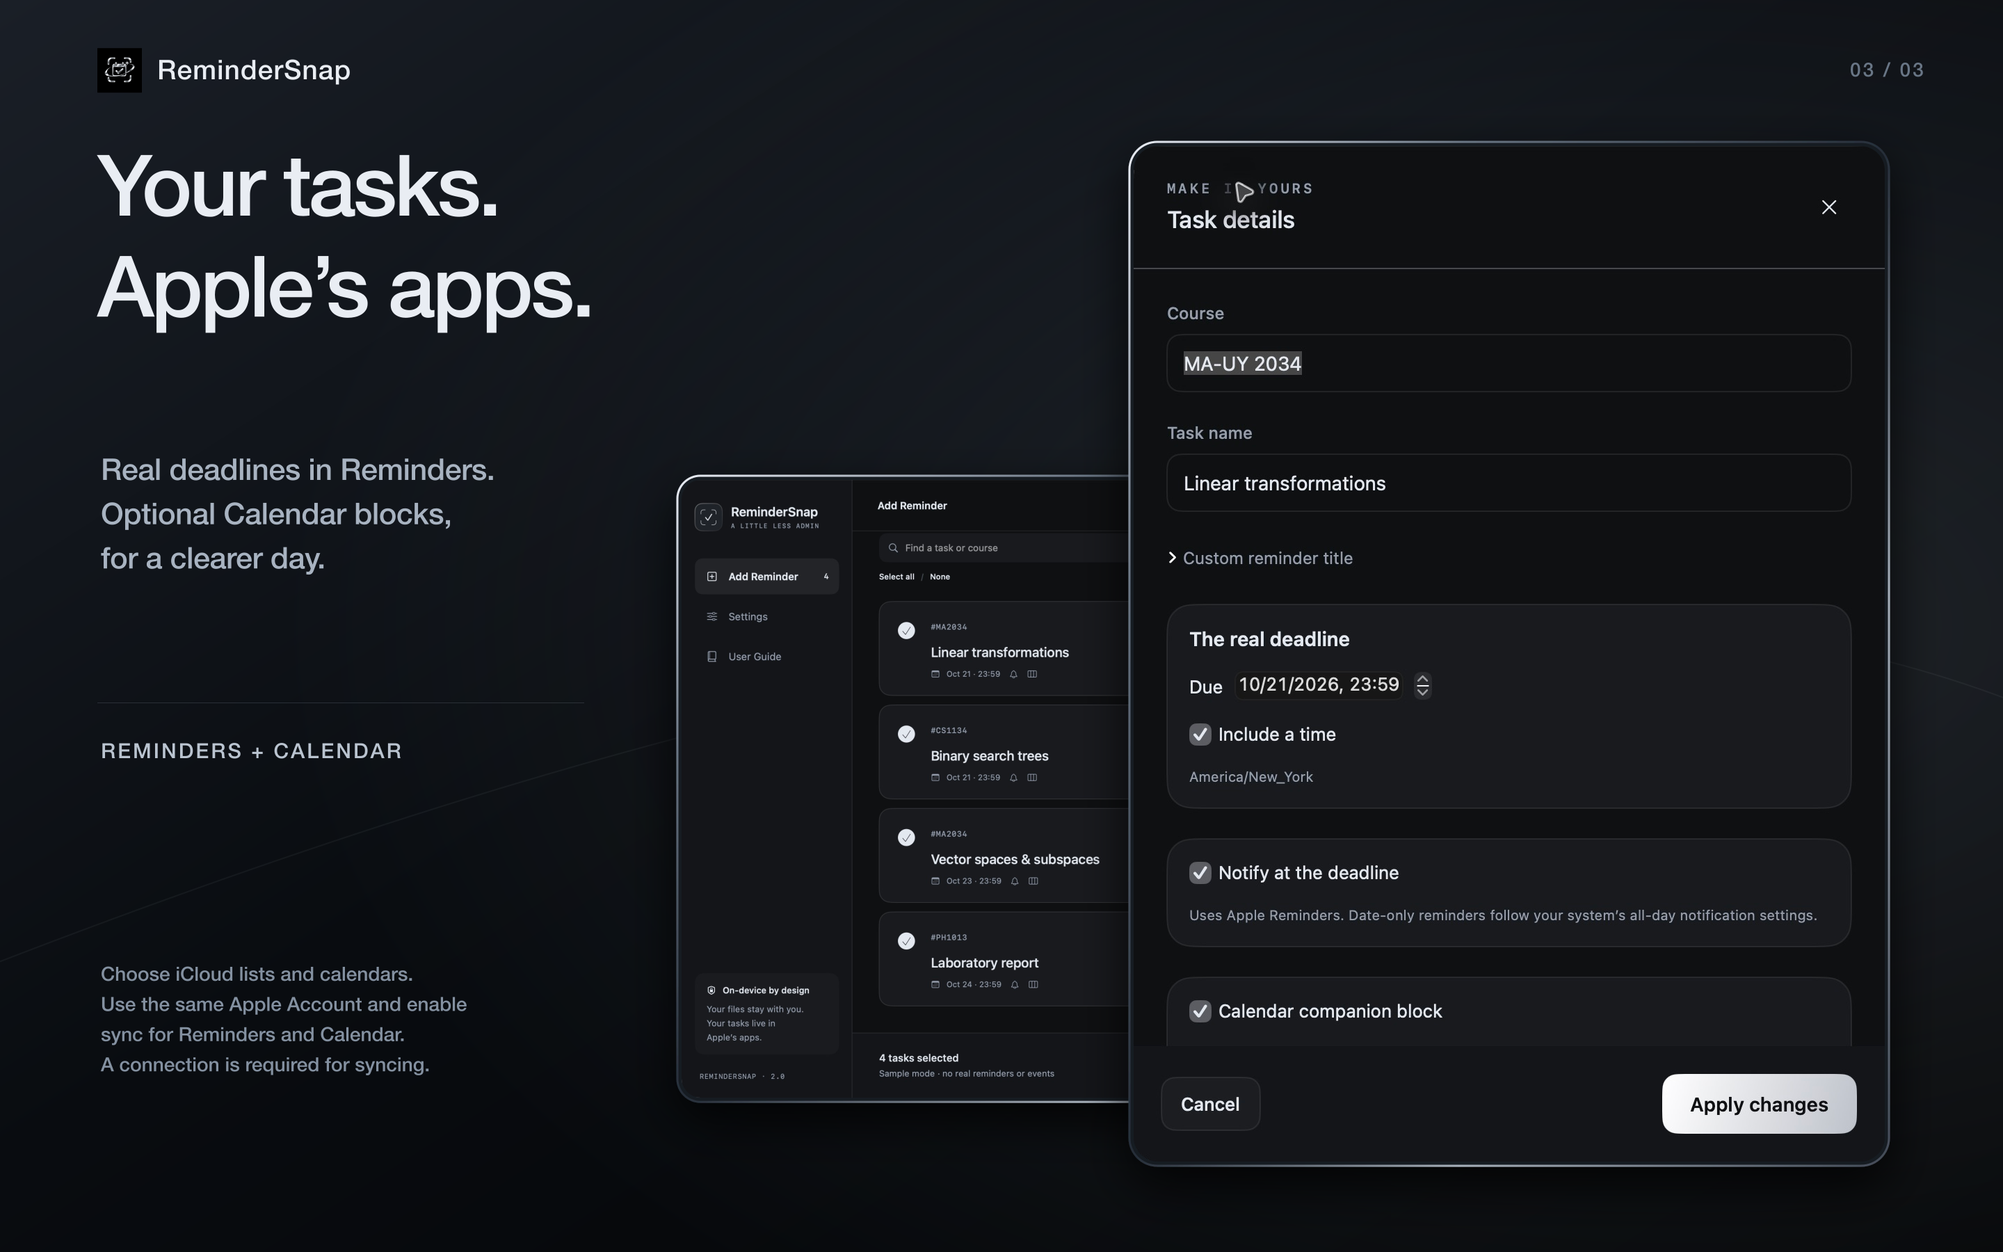
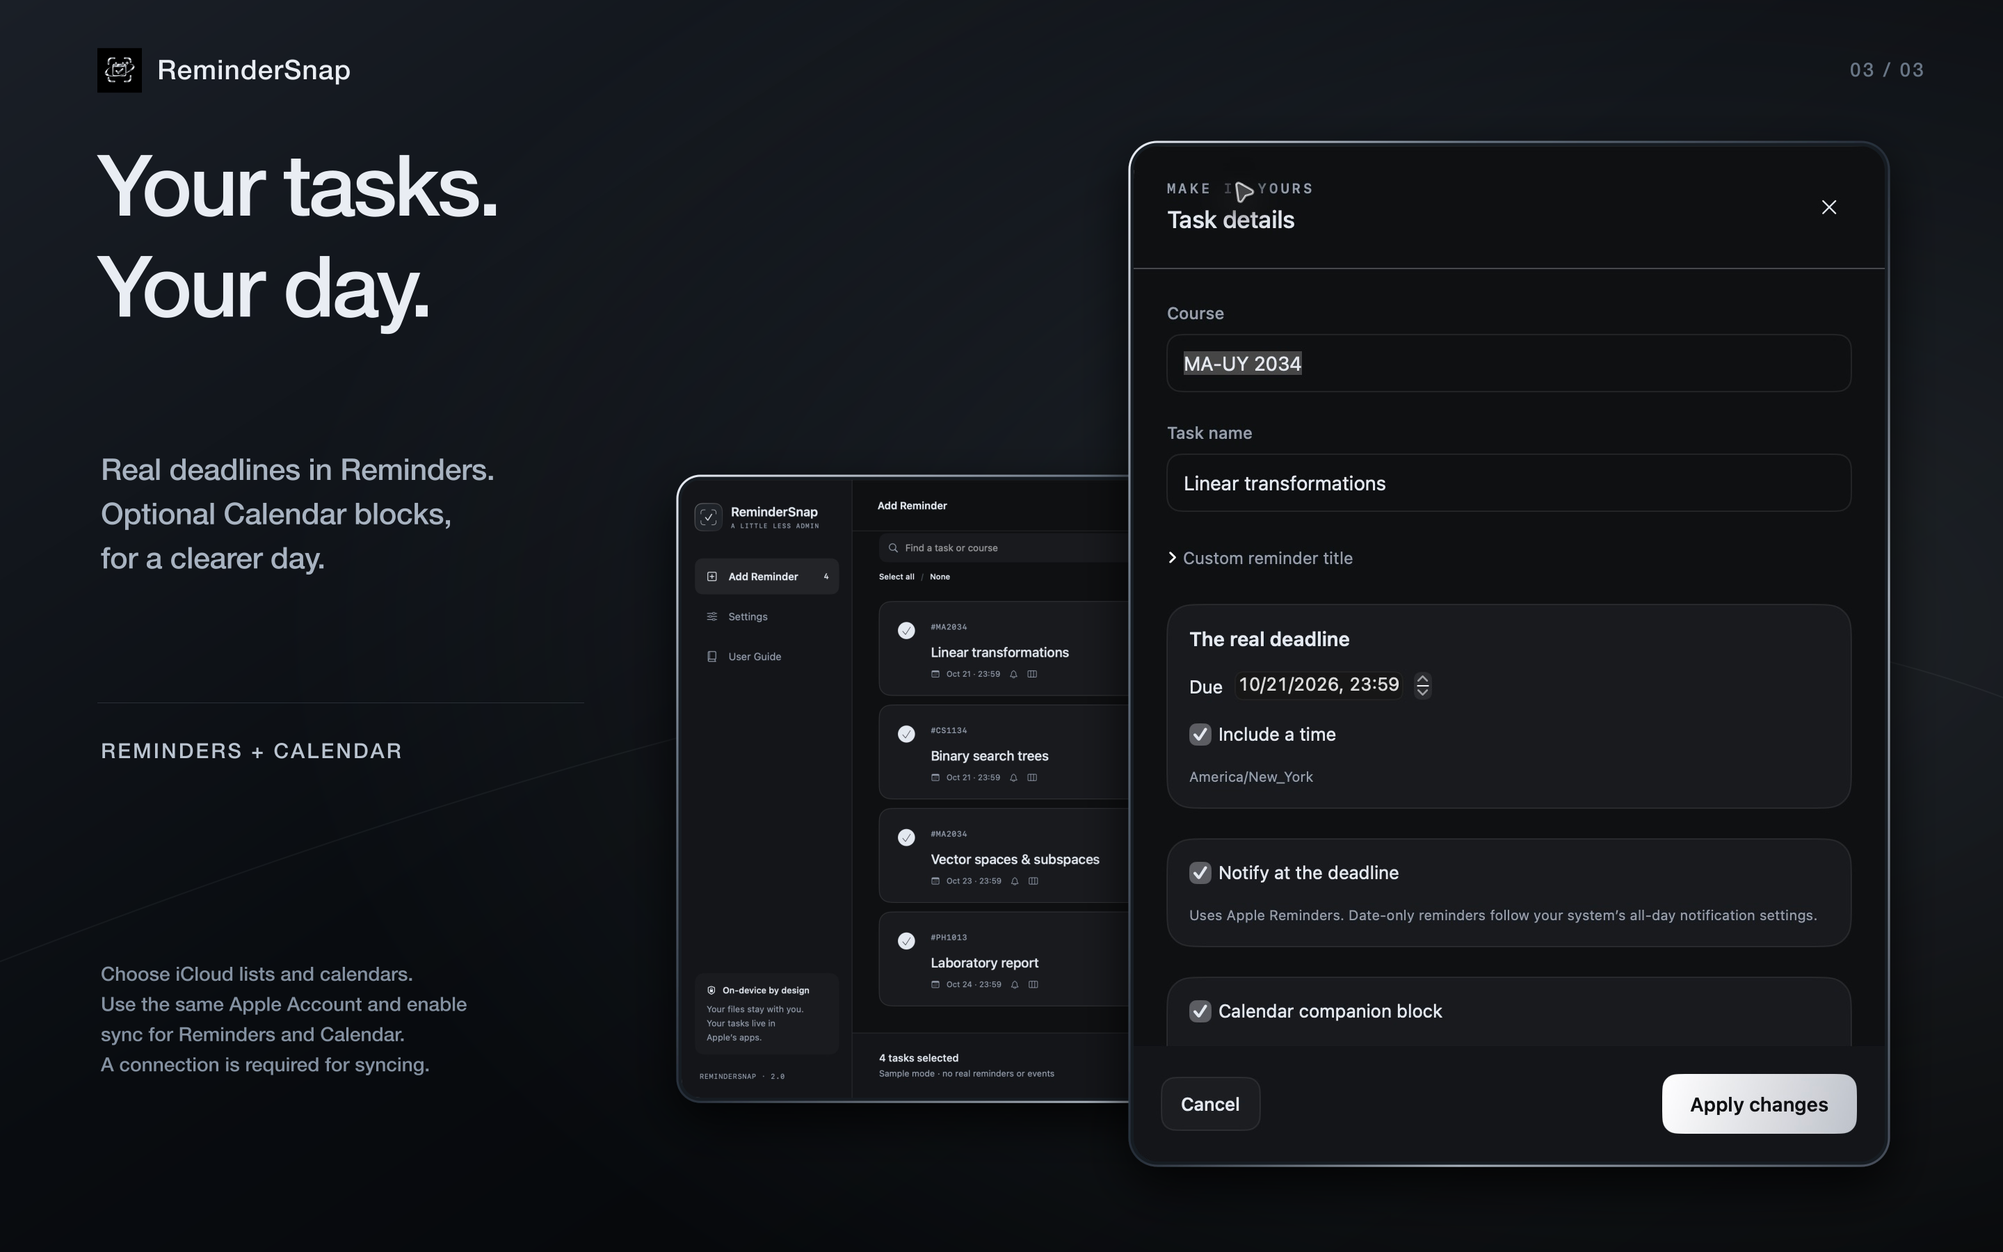
Correct Mac store branding and record metadata resubmission

Changed region(s): [[0.0312, 0.1867, 0.3125, 0.28]]

diff --git a/AppStore/UPLOAD-STATUS.md b/AppStore/UPLOAD-STATUS.md
@@ -1,6 +1,6 @@
 # ReminderSnap 2.0 — upload status
 
-Updated October 20, 2026. This records upload and submission work, not App Review approval or public release.
+Updated October 22, 2026. Current state: iOS Ready for Distribution; macOS resubmitted and Waiting for Review.
 
 ## App record
 
@@ -12,6 +12,16 @@ Updated October 20, 2026. This records upload and submission work, not App Revie
 - [App Store Connect](https://appstoreconnect.apple.com/apps/6824731033/distribution)
 - Source: [ReminderSnap-v2.0](https://github.com/NerdyKevvy/ReminderSnap-v2.0). Initial build 20003 used release source commit a857b69; build 20004 adds the setup follow-up described below.
 
+## October 22 review outcome and metadata correction
+
+- Verified the iOS version 2.0 sidebar status is Ready for Distribution. The owner reports the iOS app is released and reachable by its App Store link. This turn did not change, withdraw, replace or resubmit the released iOS binary; country-by-country availability and search indexing were not audited.
+- Mac review rejected version 2.0 (20004) under guideline 5.2.5, specifically for Apple terms in the subtitle. No code defect or binary change was requested in that report.
+- Saved neutral English and Simplified Chinese subtitles: "Screenshots to tasks" and "截图识别，轻松创建待办与日程". These fields are shared App Information; Apple's page says changes release with the next app version, rather than being Mac-only fields.
+- As a precaution, replaced only the third Mac screenshot in both languages with neutral headlines. The listing still has three panels per locale, and the former panels remain in Apple's Asset Library and a local ignored archive. No released iPhone/iPad screenshots were changed.
+- Sent a factual reply to App Review at 4:11 PM Eastern describing the metadata corrections; no new legal agreement or compliance declaration was accepted.
+- Resubmitted the same Mac build 20004 at 4:12 PM Eastern on October 22. Verified both the submission and its app-version item show Waiting for Review. Submission ID remains 1e9ef1ae-175f-4905-acf0-2ebf5e05e9bd. Mac manual release remains selected; Mac approval/public release has not occurred.
+- The two revised PNGs passed exact 2880×1800, PNG/no-alpha checks and visual inspection. Renderer syntax and git diff whitespace checks passed. No application code or binary was changed, rebuilt or uploaded.
+
 ## Setup follow-up — build 20004
 
 - Owner tested build 20003: app functionality was reported working, with Calendar permission display needing one restart and the initial TestFlight guide not appearing.
@@ -19,14 +29,14 @@ Updated October 20, 2026. This records upload and submission work, not App Revie
 - Permission callbacks acknowledge approval immediately, with a separate pending-confirmation state when needed. EventKit cache reset and longer bounded refresh remain in place; actual system-confirmed full access still gates saves.
 - New migration/approval/refresh tests, full regression/OCR/PDF/CLI checks, Mac build and iOS simulator build passed. The guide appeared automatically in an isolated Mac app and iPhone simulator; finishing and relaunching the Mac app did not repeat the guide. No personal Calendar/Reminders permissions or entries were changed.
 - Both signed archives and uploads succeeded. Apple processed both build 20004 uploads, and both are Ready to Test in Owner testing. The group has one tester and four builds, retaining the two older builds for comparison. No new tester invitation was sent.
-- Real-device recheck of the revised Calendar connection flow remains pending. Build 20004 is not an App Review approval or a public release.
+- A separate explicit real-device recheck of the revised Calendar connection flow has not been recorded. Build availability by itself does not prove device behavior; the later iOS review outcome is recorded above.
 
 ## Completed
 
 - Created black/silver product-page panels around genuine fictional-sample captures. Uploaded three each for Mac, iPhone Dynamic Island medium and iPad 13-inch in English and Simplified Chinese (18 images). No owner calendar, reminder list or personal course screenshot was published. Optional larger iPhone exports are retained locally.
 - Corrected the required Chinese privacy-policy URL to the already published bilingual policy. The published Data Not Collected response was not changed.
-- Mac version 2.0 (20004) passed App Store Connect validation and was submitted on October 20 at 11:11 AM Eastern. Confirmed status: Waiting for Review. Submission ID: 1e9ef1ae-175f-4905-acf0-2ebf5e05e9bd. Manual public release remains selected.
-- After screenshot processing completed, iOS version 2.0 (20004), including iPhone/iPad, passed validation and was submitted on October 20 at 11:14 AM Eastern. Confirmed status: Waiting for Review. Submission ID: 67142bc3-9749-4061-b295-cbfcd3cb1cd7. Manual public release remains selected. The submissions page shows both platform versions Waiting for Review and zero draft submissions.
+- Mac version 2.0 (20004) passed App Store Connect validation and was initially submitted on October 20 at 11:11 AM Eastern. Its October 22 correction/resubmission is recorded above.
+- After screenshot processing completed, iOS version 2.0 (20004), including iPhone/iPad, passed validation and was submitted on October 20 at 11:14 AM Eastern. Submission ID: 67142bc3-9749-4061-b295-cbfcd3cb1cd7. Both initial submissions were then Waiting for Review; the current iOS outcome is recorded above.
 - Verified Xcode account and GitHub connection. Preserved the owner's untracked Xcode Cloud configuration.
 - Registered the approved permanent bundle ID and created one Mac/iOS App Store Connect record. Existing-team Full Access was explicitly approved.
 - Created signing certificates and an iOS App Store provisioning profile with owner approval. Private signing keys remain in the Mac Keychain; none were committed to GitHub.
@@ -44,7 +54,7 @@ Updated October 20, 2026. This records upload and submission work, not App Revie
 - Owner updates TestFlight to build 20004 and checks the revised guide and Calendar connection flow. No repeat invitation acceptance is needed. See [device test checklist](DEVICE-TEST.md).
 - Real-device persistence, permissions and notification testing, including iPad layout, minimum-OS checks and accessibility. No personal Apple reminders/events were written during the upload work.
 - Address any App Store Connect validation or applicable regional requirements shown during final submission. The selected storefronts are not a legal certification for every country.
-- Apple's review of both submitted platform versions, any review feedback, and the selected manual public release after approval. Neither platform is approved or publicly released.
+- Apple's review of the corrected Mac submission, any additional feedback, and the selected Mac manual public release after approval. iOS is already Ready for Distribution. Investigate the owner's reported iOS search visibility separately if it persists.
 
 ## Local evidence
 
@@ -71,6 +81,7 @@ Updated October 20, 2026. This records upload and submission work, not App Revie
 - Artifacts/Submission/store-ios-media-zh.png
 - Artifacts/Submission/mac-submitted-20004.png
 - Artifacts/Submission/both-submitted-20004.png
+- Artifacts/Submission/mac-resubmitted-20004-2026-10-22.png
 - Artifacts/StoreMedia/preview-en-US.png
 - Artifacts/StoreMedia/preview-zh-Hans.png
 

diff --git a/VERIFICATION.md b/VERIFICATION.md
@@ -2,6 +2,15 @@
 
 Initial local checks used build 20002 on October 19, 2026 with Xcode 27.1 (27A9275), macOS 27.0.1, Apple Silicon. The existing v2.0 Preview folder was not edited. Initial distribution used build 20003; the setup follow-up uses build 20004.
 
+## Mac metadata correction — October 22
+
+- Verified iOS Ready for Distribution and the Mac review message naming Apple terms in the subtitle under guideline 5.2.5. No application behavior/code fix was requested in that message.
+- Saved neutral shared App Information subtitles in English and Simplified Chinese. The released iOS binary/version was not changed, withdrawn or resubmitted; the page labels metadata edits as changes for the next release.
+- Revised only the third Mac panel's headline in each locale, then regenerated the asset exports/contact sheets. Git confirms the other Mac panels and all iPhone/iPad panels are unchanged. Both replacement PNGs passed visual inspection, 2880×1800 dimensions, PNG format and no-alpha validation. Renderer syntax and whitespace checks passed; an application rebuild/test run was unnecessary for this metadata-only correction.
+- Uploaded the two replacements, removed the superseded panels only from the Mac listing (retained in Asset Library), and confirmed three panels per locale.
+- Verified the correction reply is present in the review thread. Resubmitted unchanged Mac 2.0 (20004) and confirmed Waiting for Review at 4:12 PM Eastern. Evidence: Artifacts/Submission/mac-resubmitted-20004-2026-10-22.png.
+- This does not guarantee Mac approval or address unrelated Calendar ghost-display/OS behavior. Regional download availability and App Store search indexing were not independently tested in this turn.
+
 ## Store media and submission — October 20
 
 - Captured the real build 20004 interface using fictional built-in tasks on an isolated Mac app, iPhone simulator and iPad 13-inch simulator, in English and Simplified Chinese. No personal Apple permissions or actual saves were performed for these captures.
@@ -63,7 +72,7 @@ Apple's [EventKit access documentation](https://developer.apple.com/documentatio
 
 ## Not yet verified / release blockers
 
-- Apple's review of both platforms and manual public release. Genuine localized store screenshots, saved metadata, approved declarations, public privacy/support links, signing/upload and both review submissions are complete. No public release has occurred.
+- Apple's review of the corrected Mac metadata and subsequent manual Mac release. iOS is Ready for Distribution and reported released by the owner; individual storefront/search availability has not been audited. Initial upload/submission history and the Mac resubmission are recorded above.
 - Real Mac/iPhone/iPad permission grants, list/calendar creation, saves and notification delivery with the new production identity. No access to personal Reminders/Calendar was granted during these checks.
 - Physical iPhone/iPad operation, iPad orientations, minimum supported OS behavior, VoiceOver and full Dynamic Type coverage. The portrait iPad simulator review/editor/settings layouts were visibly checked during store capture, not physical-device notification behavior.
 - Calendar's earlier reported ghost display is not claimed repaired.

diff --git a/AppStore/RELEASE-CHECKLIST.md b/AppStore/RELEASE-CHECKLIST.md
@@ -24,10 +24,10 @@
 - [x] English and Simplified Chinese listing metadata, public support links, private review contacts and testing notes saved for both platforms.
 - [x] Signed distribution archives with dSYMs exported and uploaded for version 2.0 (20003) on both platforms. Both upload logs report success; Apple processing succeeded and the builds are attached to their release pages.
 - [x] Owner testing internal TestFlight group contains both builds as Ready to Test. Only the owner was added, with explicit approval; the owner subsequently installed and tested build 20003. Automatic build distribution is off.
-- [x] Manual public release selected for both platforms. Mac and iOS App Review submissions completed October 20; no public release has occurred.
+- [x] Manual public release was selected for both initial submissions October 20. On October 22, iOS shows Ready for Distribution and the owner reports it released; Mac remains manual release after review.
 - [x] Setup follow-up build 20004 compiled, archived, uploaded and processed for Mac/iOS; added to the same owner TestFlight group. Local tests cover old guide preferences, first presentation, restart instructions, approval/pending/revoked state and late refresh. Owner reported the rest of build 20003 working; the new connection flow still requires their device recheck.
 
-## Remaining before public release
+## Release verification and remaining Mac release work
 
 - [x] Owner accepted TestFlight and tested build 20003. Follow-up build 20004 is available; a separate explicit device recheck of the revised connection flow has not been recorded. See [DEVICE-TEST.md](DEVICE-TEST.md).
 - [ ] Complete real-device testing on iPhone/iPad and sandboxed Mac with dedicated test list/calendar: grant/deny/re-grant, destination creation, two identical imports, same-day deadlines, notifications, timezone/DST, Photos, Files, multitasking and accessibility.
@@ -37,7 +37,9 @@
 - [x] Resolve current App Store Connect validation: Chinese privacy-policy link added, screenshots processed and both submissions accepted into Waiting for Review. Selecting all storefronts does not establish country-specific legal clearance; address any later applicable requirement if raised.
 - [x] Submit macOS 2.0 (20004) for App Review; status Waiting for Review, October 20, 2026.
 - [x] Submit iOS 2.0 (20004) for App Review; status Waiting for Review, October 20, 2026.
-- [ ] Address review feedback for either platform if any and perform the selected manual release after approval.
+- [x] iOS 2.0 shows Ready for Distribution on October 22; owner reports it released. The released iOS binary was not modified during the Mac correction.
+- [x] Address the October 22 Mac guideline 5.2.5 subtitle issue in English/Chinese, neutralize the third Mac screenshot headline, reply to App Review and resubmit unchanged build 20004. Verified Waiting for Review at 4:12 PM Eastern.
+- [ ] Address additional Mac feedback if any and perform the selected manual Mac release after approval. Audit individual storefront/search availability separately if needed.
 
 Suggested archive command after signing and public policy are ready:
 

diff --git a/AppStore/LISTING-DRAFT.md b/AppStore/LISTING-DRAFT.md
@@ -6,7 +6,7 @@ English and Simplified Chinese descriptions, keywords and support links have bee
 
 Name: ReminderSnap
 
-Subtitle: Screenshots to Apple Reminders
+Subtitle: Screenshots to tasks
 
 Category: Productivity
 
@@ -35,7 +35,7 @@ homework,deadline,planner,student,OCR,screenshot,calendar,reminders,PDF,assignme
 
 名称：ReminderSnap
 
-副标题：从截图到 Apple 提醒事项
+副标题：截图识别，轻松创建待办与日程
 
 描述：
 
@@ -67,4 +67,10 @@ Clear All clears only the current in-memory review and recognized text. It does 
 
 Attach the included synthetic Samples/Cropped-homework.png and Samples/Example-homework.pdf if needed; these do not contain personal student data. They omit course information deliberately: enter MA-UY 2034 as batch context, or edit the extracted row. Do not use past-due fixtures to evaluate notification delivery; set a future date/time in a dedicated test destination.
 
-Private App Review contact fields, public privacy/support links and copyright (2026 Junhan Li) are saved for both platforms. Owner-approved privacy, content-rights, age-rating and non-trader responses are saved. Remaining presentation work is genuine device screenshots and the owner's final listing review; real-device TestFlight testing must precede public release. Private contact details are intentionally not repeated in this public document.
+Private App Review contact fields, public privacy/support links and copyright (2026 Junhan Li) are saved for both platforms. Owner-approved privacy, content-rights, age-rating and non-trader responses are saved. Genuine localized device screenshots were uploaded October 20. Private contact details are intentionally not repeated in this public document.
+
+## October 22 metadata correction
+
+The Mac review of build 20004 cited guideline 5.2.5 and specifically objected to Apple terms in the subtitle. The English and Simplified Chinese subtitles above replace the submitted Apple-branded wording. App Information is shared across platforms; App Store Connect labels these as changes released with the next app version. The already released iOS binary/version was not replaced, withdrawn or resubmitted.
+
+As an additional precaution, the third Mac screenshot headline was revised to "Your tasks. Your day." / "你的任务，日程更清晰。" Accurate compatibility explanations remain in the description and screenshot body. The revised panel is uploaded as `03-tasks-and-calendar.png`; its tracked render output retains the original filename for script compatibility. The other two Mac panels and all released iPhone/iPad panels are unchanged. Previous Mac panels remain in Apple's Asset Library and in the ignored local archive.

diff --git a/AppStore/Media/README.md b/AppStore/Media/README.md
@@ -12,7 +12,9 @@ Layout source: `Scripts/render-store-media.cjs` (Node + sharp). Input captures r
 
 Output sizes: Mac 2880×1800; iPhone large 1320×2868 and medium 1206×2622; iPad 13-inch portrait 2064×2752. Upload the sizes requested by the live App Store Connect media manager; smaller device families may inherit scaled images.
 
-On October 20, 2026, three panels per locale were uploaded for Mac, iPhone Dynamic Island medium and iPad 13-inch: 18 uploaded images in total. The large iPhone set is retained as an optional export, not uploaded into the medium-size slot. All 24 generated PNGs passed dimension/format/no-alpha checks. Apple finished processing the uploaded screenshots, and both platform submissions reached Waiting for Review. No public release has occurred.
+On October 20, 2026, three panels per locale were uploaded for Mac, iPhone Dynamic Island medium and iPad 13-inch: 18 uploaded images in total. The large iPhone set is retained as an optional export, not uploaded into the medium-size slot. All 24 generated PNGs passed dimension/format/no-alpha checks. Apple finished processing the uploaded screenshots, and both platform submissions reached Waiting for Review.
+
+On October 22, App Store Connect showed iOS Ready for Distribution and macOS Rejected under guideline 5.2.5 for Apple wording in the subtitle. The subtitle was corrected separately in both languages. As a precaution, only the third Mac panel was revised to a neutral headline: "Your tasks. Your day." / "你的任务，日程更清晰。" The replacement was uploaded as `03-tasks-and-calendar.png`, leaving three panels per locale. Its tracked file remains `macOS/03-apple-and-icloud.png`. The other panels, including released iPhone/iPad assets, are unchanged. Original Mac panels are retained in ignored `Artifacts/StoreMedia/Pre-5.2.5-2026-10-22/` and Apple's Asset Library.
 
 Rebuild with `node Scripts/render-store-media.cjs`, using a Node environment where sharp is available. Optional arguments `mac iphone ipad` select the sets to render. Contact-sheet previews and the capture-to-output manifest are written into ignored `Artifacts/StoreMedia/`.
 
